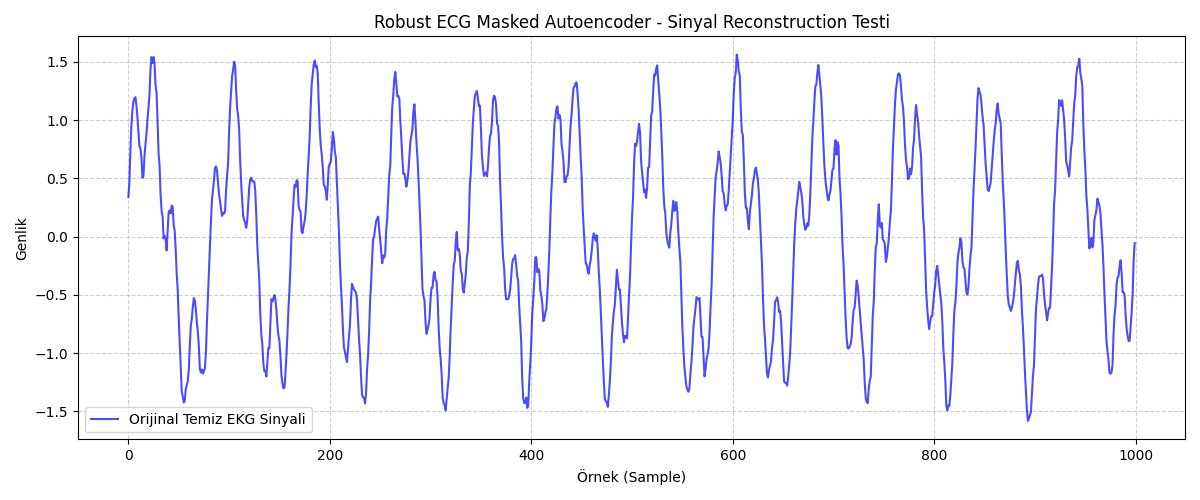
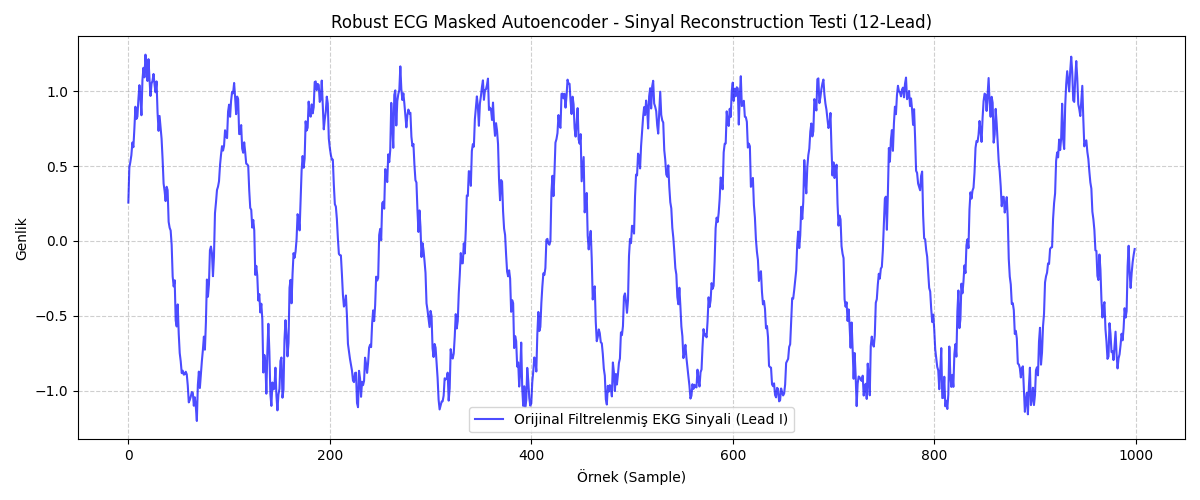
feat: 12-lead EKG reconstruction test ve gorsellestirme betigi eklendi

diff --git a/src/evaluate.py b/src/evaluate.py
@@ -5,49 +5,51 @@ import os
 
 from model import ECGMaskedAutoencoder
 from preprocess import butter_bandpass_filter
+from dataset import create_dummy_ptbxl_data
 
 def evaluate_reconstruction():
     device = torch.device("cuda" if torch.cuda.is_available() else "cpu")
     
-    # 1. Kaydedilen Modeli Yükle
+    # 1. Kaydedilen Modeli Yükle (12-lead uyumlu)
     model_path = "models/mae_ecg_checkpoint.pth"
     if not os.path.exists(model_path):
         print("Hata: Kayıtlı model bulunamadı! Önce train.py çalıştırılmalı.")
         return
 
-    model = ECGMaskedAutoencoder().to(device)
+    model = ECGMaskedAutoencoder(in_channels=12).to(device)
     model.load_state_dict(torch.load(model_path, map_location=device))
     model.eval()
     print("Model başarıyla yüklendi!")
 
-    # 2. Test İçin Sentetik Örnek EKG Sinyali Oluştur
-    t = np.linspace(0, 10, 1000)
-    raw_signal = np.sin(2 * np.pi * 1.2 * t) + 0.5 * np.sin(2 * np.pi * 5 * t) + np.random.normal(0, 0.05, 1000)
-    filtered_signal = butter_bandpass_filter(raw_signal, fs=100)
+    # 2. Test İçin Sentetik 12-Lead EKG Sinyali Oluştur ve Filtrele
+    raw_signals = create_dummy_ptbxl_data(num_samples=1, num_leads=12, length=1000)[0]
     
-    # Negative stride hatasını önlemek için .copy() eklendi
-    input_tensor = torch.tensor(filtered_signal.copy(), dtype=torch.float32).unsqueeze(0).to(device)
+    # Her kanala Butterworth Bandpass filtresi uygula
+    filtered_signals = np.array([butter_bandpass_filter(raw_signals[i], fs=100) for i in range(12)])
+    
+    # Negative stride hatasını önlemek için .copy()
+    input_tensor = torch.tensor(filtered_signals.copy(), dtype=torch.float32).unsqueeze(0).to(device)
 
     # 3. Model Tahmini
     with torch.no_grad():
         decoded, mask = model(input_tensor)
         
-    original = input_tensor.cpu().numpy().squeeze()
+    original = input_tensor.cpu().numpy().squeeze()[0] # Lead I görselleştirme için
     
     # 4. Görselleştirme
     plt.figure(figsize=(12, 5))
-    plt.plot(original, label='Orijinal Temiz EKG Sinyali', color='blue', alpha=0.7)
-    plt.title("Robust ECG Masked Autoencoder - Sinyal Reconstruction Testi")
+    plt.plot(original, label='Orijinal Filtrelenmiş EKG Sinyali (Lead I)', color='blue', alpha=0.7)
+    plt.title("Robust ECG Masked Autoencoder - Sinyal Reconstruction Testi (12-Lead)")
     plt.xlabel("Örnek (Sample)")
     plt.ylabel("Genlik")
     plt.grid(True, linestyle='--', alpha=0.6)
     plt.legend()
     
+    os.makedirs("data/raw", exist_ok=True)
     output_img = "data/raw/reconstruction_test.png"
     plt.tight_layout()
     plt.savefig(output_img)
     print(f"Test sonucu grafiği '{output_img}' konumuna başarıyla kaydedildi!")
-    plt.show()
 
 if __name__ == '__main__':
     evaluate_reconstruction()
